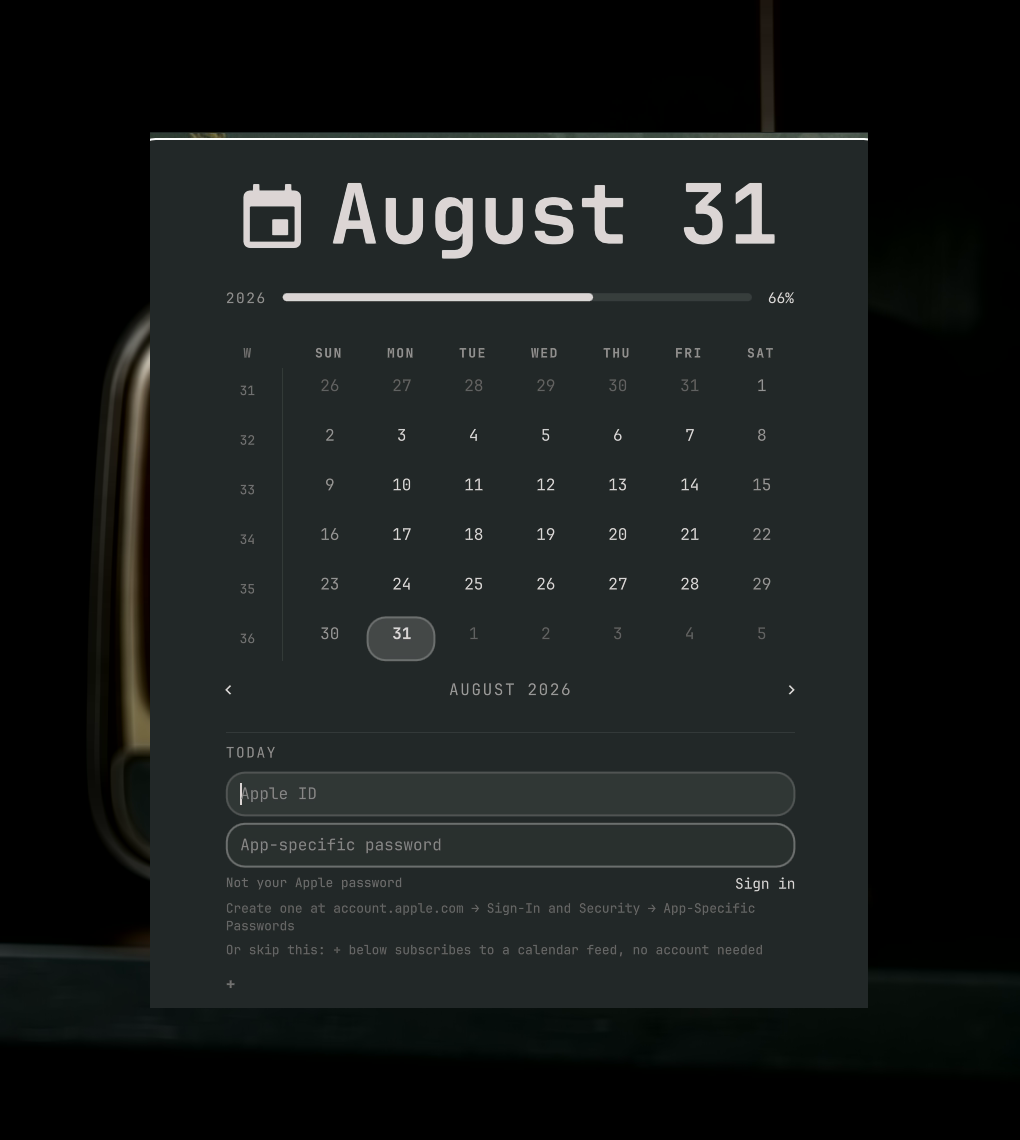
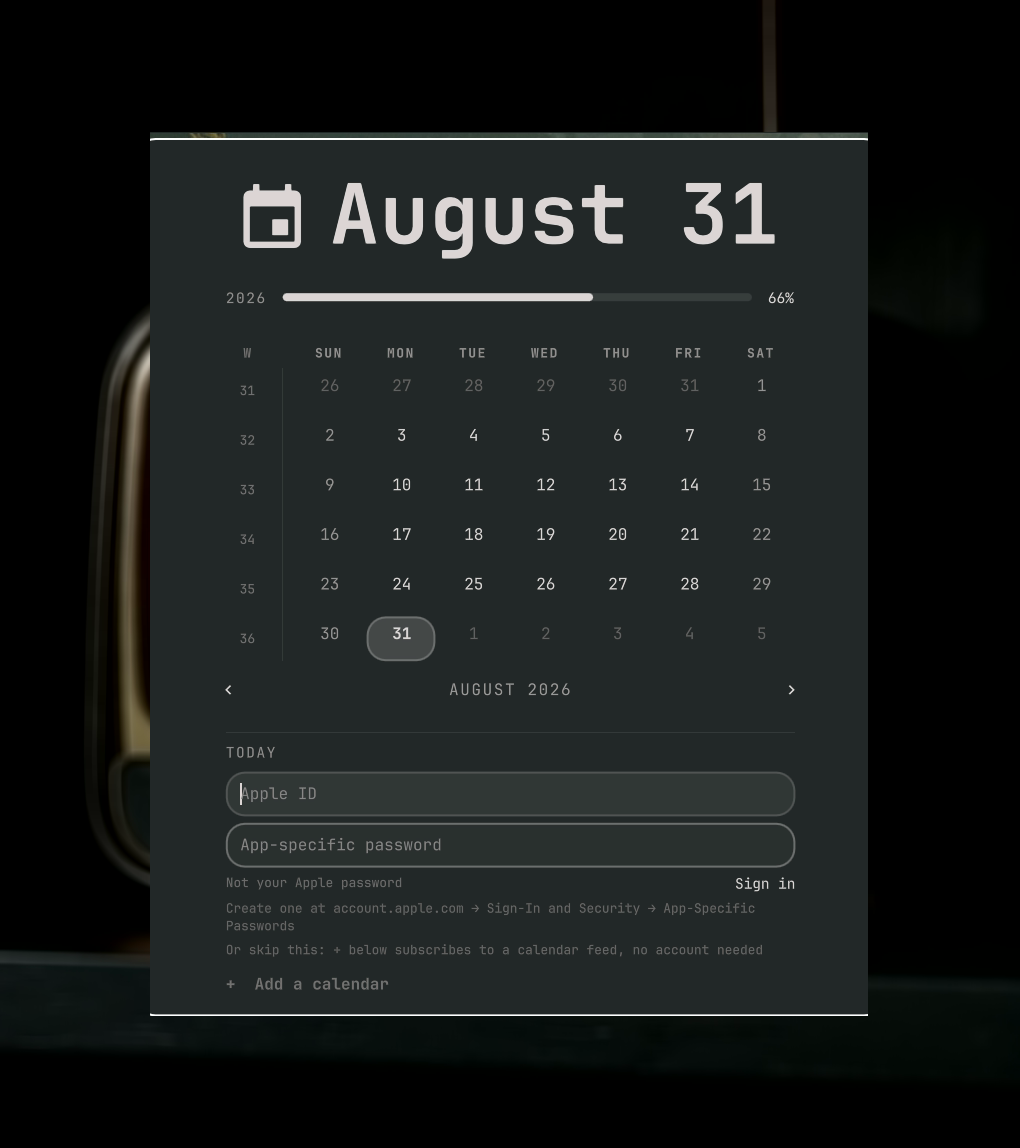
Keep signing in reachable, and give the add button a label when it stands alone
Signing in was a one-way door. The form showed only while nothing was set up,
and the sign-out link only while signed in — so anyone who subscribed to a
feed first became configured without being signed in, and had no way back to
the form ever again. A "Sign in" action now sits with the other controls
whenever an account is absent.

The add button was a bare "+" with nothing beside it on a fresh install,
reading as a stray mark on its own row. With no calendars to sit next to it,
it now says what it does.

diff --git a/Panel.qml b/Panel.qml
@@ -111,6 +111,14 @@ Panel {
   property string signInError: ""
 
   readonly property bool configured: cache.configured === true
+  readonly property bool signedIn: cache.signedIn === true
+
+  // Someone who only ever subscribed to a feed is configured but not signed
+  // in. Without this the form would be gone for good the moment the first
+  // feed landed, and there would be no way back to it.
+  property bool showSignIn: false
+  readonly property bool signInVisible: (!root.configured || root.showSignIn)
+    && root.missingPackages.length === 0
   readonly property var missingPackages: cache.missing instanceof Array ? cache.missing : []
 
   // Which calendar's swatches are open, and whether the URL field is up.
@@ -201,8 +209,7 @@ Panel {
       if (root.opened) setCenterHoverRevealSuppressed(true)
       // A panel that opens by asking for credentials should be ready to take
       // them, rather than making the first act a click into a field.
-      if (root.opened && !root.configured && root.missingPackages.length === 0)
-        appleIdField.forceActiveFocus()
+      if (root.opened && root.signInVisible) appleIdField.forceActiveFocus()
     })
   }
 
@@ -584,6 +591,7 @@ Panel {
       root.signingIn = false
       if (exitCode === 0) {
         root.signInError = ""
+        root.showSignIn = false
         appleIdField.text = ""
         passwordField.text = ""
         Qt.callLater(function() { if (keyCatcher) keyCatcher.forceActiveFocus() })
@@ -662,7 +670,7 @@ Panel {
       id: keyCatcher
       anchors.fill: parent
       blocked: root.editingLife || root.addingSubscription
-        || root.calendarEditing !== "" || !root.configured
+        || root.calendarEditing !== "" || root.signInVisible
       onMoveRequested: function(dx, dy) {
         if (dx !== 0) root.moveMonth(dx)
         if (dy !== 0) root.moveYear(dy)
@@ -1469,7 +1477,7 @@ Panel {
               //      log in" should be the whole of the setup.
               Column {
                 width: parent.width
-                visible: !root.configured && root.missingPackages.length === 0
+                visible: root.signInVisible
                 height: visible ? implicitHeight : 0
                 spacing: Style.space(5)
 
@@ -1567,7 +1575,7 @@ Panel {
               }
 
               Text {
-                visible: root.configured && root.missingPackages.length === 0
+                visible: !root.signInVisible && root.missingPackages.length === 0
                   && root.selectedEvents.length === 0
                 height: visible ? implicitHeight : 0
                 width: parent.width
@@ -1671,7 +1679,12 @@ Panel {
                   Text {
                     id: addLabel
                     anchors.verticalCenter: parent.verticalCenter
-                    text: root.addingSubscription ? "×" : "+"
+                    // With calendars beside it the glyph is enough; with
+                    // none it would be a lone mark on an empty row, so it
+                    // says what it does instead.
+                    text: root.addingSubscription
+                      ? "×"
+                      : (root.calendars.length === 0 ? "+  Add a calendar" : "+")
                     color: addMouse.containsMouse || root.addingSubscription
                       ? Style.hoverStateColor(root.contentForeground, Color.accent)
                       : Qt.darker(root.contentForeground, 1.9)
@@ -1700,7 +1713,43 @@ Panel {
                 }
 
                 Item {
-                  visible: root.cache.signedIn === true
+                  visible: root.configured && !root.signedIn
+                  width: visible ? signInChip.width : 0
+                  height: root.calendarRowHeight
+
+                  Text {
+                    id: signInChip
+                    anchors.verticalCenter: parent.verticalCenter
+                    text: root.showSignIn ? "Cancel" : "Sign in"
+                    color: signInChipMouse.containsMouse
+                      ? Style.hoverStateColor(root.contentForeground, Color.accent)
+                      : Qt.darker(root.contentForeground, 2.2)
+                    font.family: root.contentFontFamily
+                    font.pixelSize: Style.font.caption
+                  }
+
+                  MouseArea {
+                    id: signInChipMouse
+                    anchors.fill: parent
+                    anchors.margins: -Style.space(4)
+                    hoverEnabled: true
+                    cursorShape: Qt.PointingHandCursor
+                    onClicked: {
+                      root.showSignIn = !root.showSignIn
+                      root.signInError = ""
+                      if (root.showSignIn) Qt.callLater(function() { appleIdField.forceActiveFocus() })
+                    }
+                  }
+
+                  PanelToolTip {
+                    visible: signInChipMouse.containsMouse
+                    text: "Connect an iCloud or CalDAV account"
+                    fontFamily: root.contentFontFamily
+                  }
+                }
+
+                Item {
+                  visible: root.signedIn
                   width: visible ? signOutLabel.width : 0
                   height: root.calendarRowHeight
 
